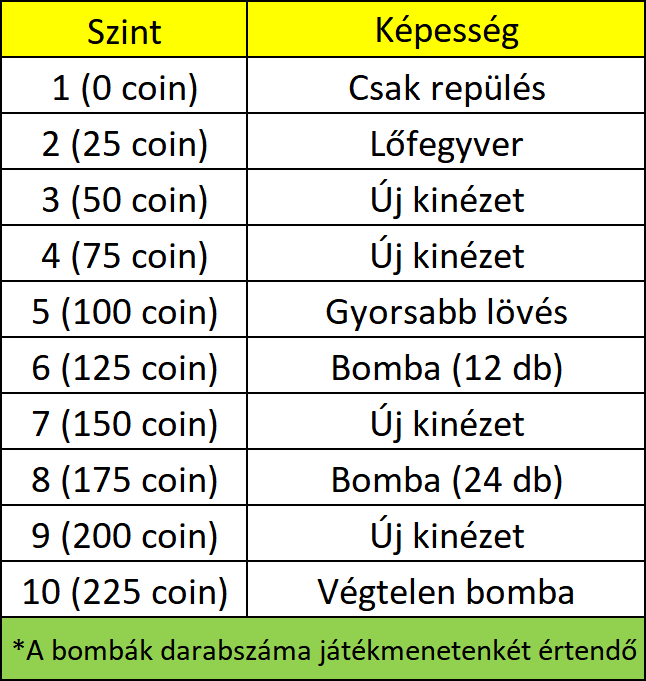
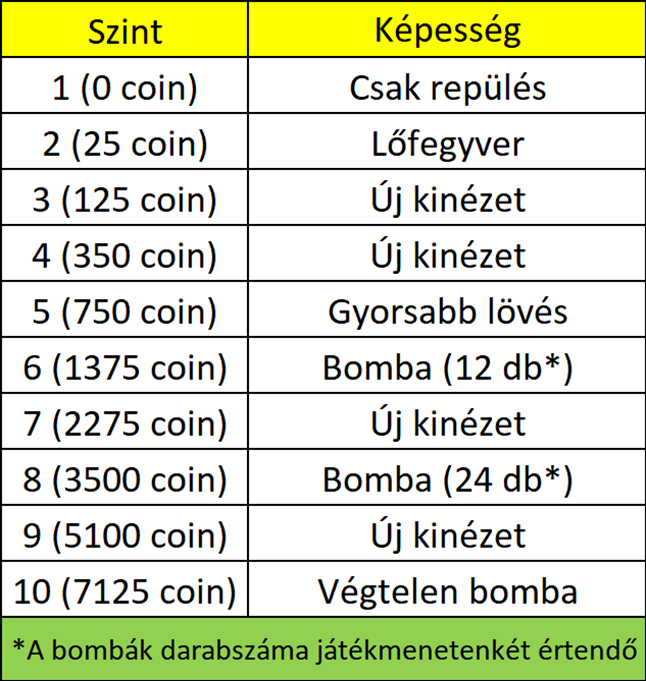
Árak update

diff --git a/core/src/hu/cehessteg/flight/Stage/ShopStage.java b/core/src/hu/cehessteg/flight/Stage/ShopStage.java
@@ -122,8 +122,8 @@ public class ShopStage extends MyStage {
                             if(getY() != getViewport().getWorldHeight()/2-this.getHeight()/2){
                                 if(getX() != getViewport().getWorldWidth()/2 - this.getWidth()){
                                     setFontScale(0.45f);
-                                    setAlignment(0);
-                                    setPosition(getViewport().getWorldWidth()/2 - lvlcost.getWidth(), getViewport().getWorldHeight()/2-lvlcost.getHeight()/2);
+                                    setAlignment(Align.left);
+                                    setPosition(getViewport().getWorldWidth()*0.05f, getViewport().getWorldHeight()/2-lvlcost.getHeight()/2);
                                     setText("Elérted a maximális szintet!");
                                     lvlup.setText("");
                                     lvlup.setTouchable(null);
@@ -148,11 +148,11 @@ public class ShopStage extends MyStage {
                         @Override
                         public void clicked(InputEvent event, float x, float y) {
                             super.clicked(event, x, y);
-                            if (((FlightGame) game).getPenz() >= (((FlightGame) game).getPlaneLevel()) * 25) { //pénz check
-                                ((FlightGame) game).setPenz(((FlightGame) game).getPenz() - (((FlightGame) game).getPlaneLevel()) * 25); // pénz levétel
+                            if (((FlightGame) game).getPenz() >= getPriceForLevel(((FlightGame) game).getPlaneLevel())) { //pénz check
+                                ((FlightGame) game).setPenz(((FlightGame) game).getPenz() - getPriceForLevel(((FlightGame) game).getPlaneLevel())); // pénz levétel
                                 ((FlightGame) game).setPlaneLevel(((FlightGame) game).getPlaneLevel() + 1); // szint up
                                 ((FlightGame) game).saveCoins(); //pénz mentése
-                                lvlcost.setText("Jelenlegi szint: " + ((FlightGame) game).getPlaneLevel() + "\nFejlesztés ára: " + (((FlightGame) game).getPlaneLevel()) * 25);
+                                lvlcost.setText("Jelenlegi szint: " + ((FlightGame) game).getPlaneLevel() + "\nFejlesztés ára: " + getPriceForLevel(((FlightGame) game).getPlaneLevel()));
 
                             }
                         }
@@ -301,6 +301,14 @@ public class ShopStage extends MyStage {
                 }
             }
         }
+    }
+
+    private int getPriceForLevel(int level){
+        int sum = 0;
+        for (int i = 1; i < level; i++){
+            sum = sum+(level*level)*25;
+        }
+        return sum;
     }
 
     @Override
